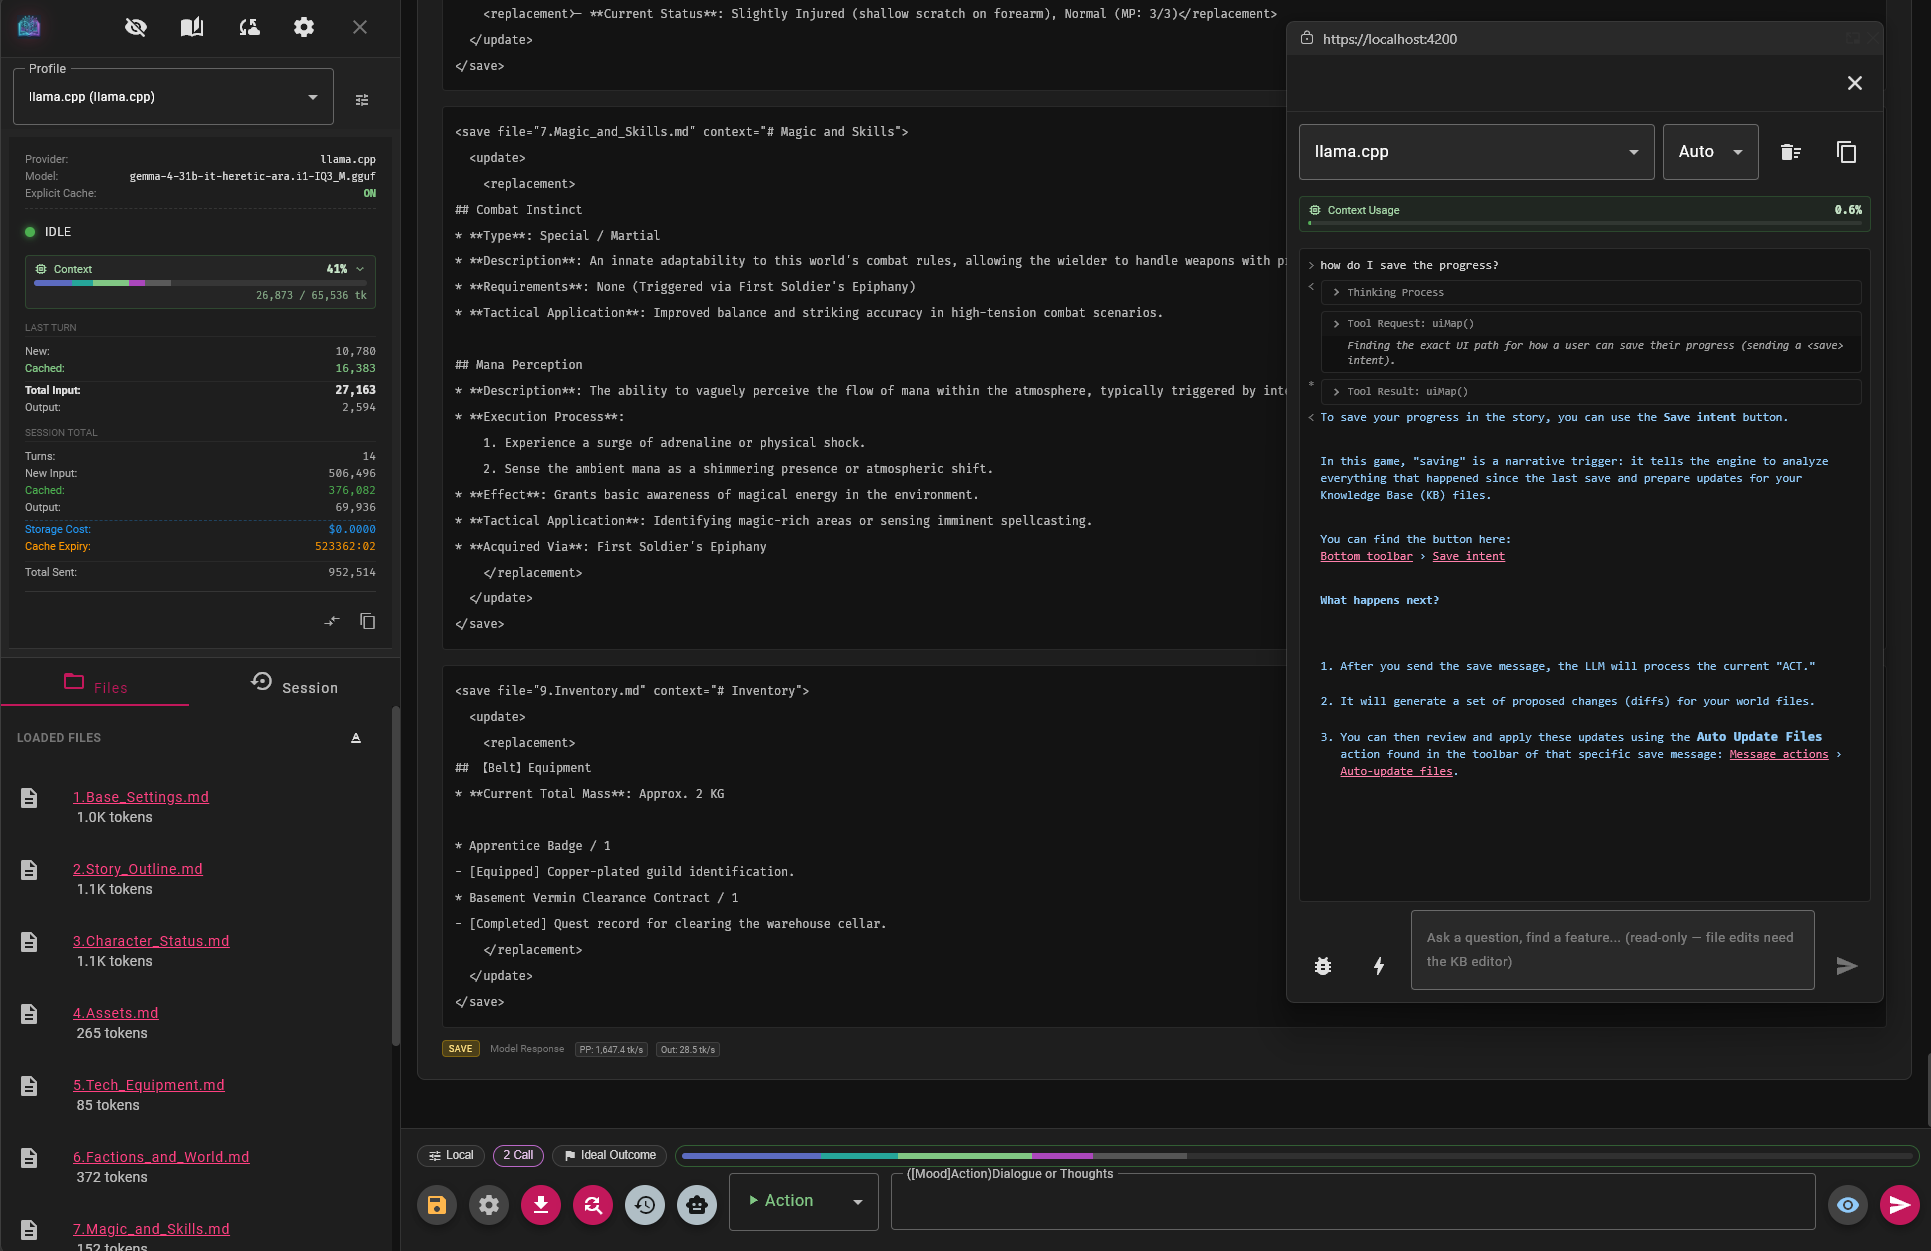
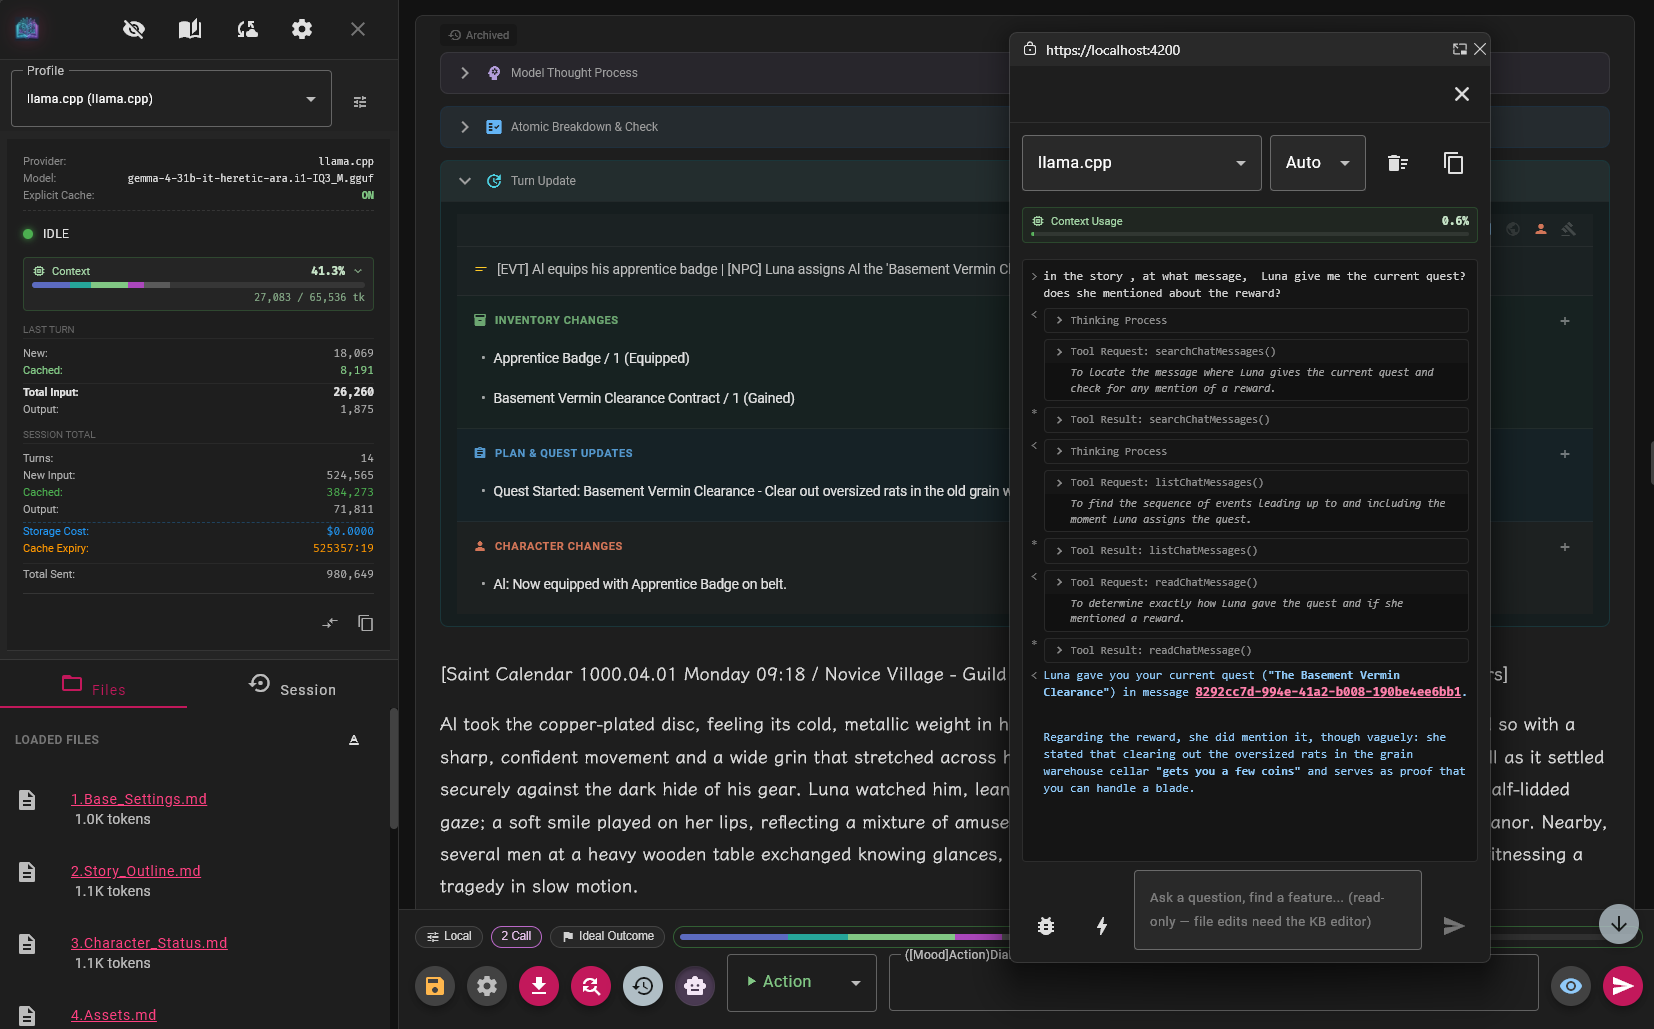
docs: refresh PiP agent demo image + caption
The new screenshot showcases a more representative agent query — a
story-aware lookup that exercises multi-message recall and reward
extraction — rather than the prior generic "how do I save" example.
zh-TW caption follows.

diff --git a/README.md b/README.md
@@ -37,7 +37,7 @@ TextRPG is a **Local-First**, **Bring Your Own Key (BYOK)** web app built around
 ![Quest Completion with Multi-NPC Reactions and State Tracking](images/2.png)
 ![Auto World Update — Hunk-by-Hunk Review](images/3.png)
 ![Auto World Update — Full File Diff View](images/4.png)
-![In-app AI Agent in a detachable Picture-in-Picture window — answering "how do I save?"](images/5.png)
+![In-app AI Agent in a detachable Picture-in-Picture window — answering "in the story , at what message,  Luna give me the current quest? does she mentioned about the reward?"](images/5.png)
 
 ---
 

diff --git a/README.zh-TW.md b/README.zh-TW.md
@@ -37,7 +37,7 @@ TextRPG 是一個**本地優先 (Local-First)**、**自帶金鑰 (Bring Your Own
 ![任務完成與多 NPC 反應、狀態追蹤](images/2.png)
 ![自動世界更新 — 逐段差分審核](images/3.png)
 ![自動世界更新 — 完整檔案差分檢視](images/4.png)
-![內建 AI Agent 在獨立的 Picture-in-Picture 視窗中回答「我該怎麼存檔」](images/5.png)
+![內建 AI Agent 在獨立的 Picture-in-Picture 視窗中回答「故事裡 Luna 在哪則訊息給我目前的任務？她有提到獎勵嗎？」](images/5.png)
 
 ---
 